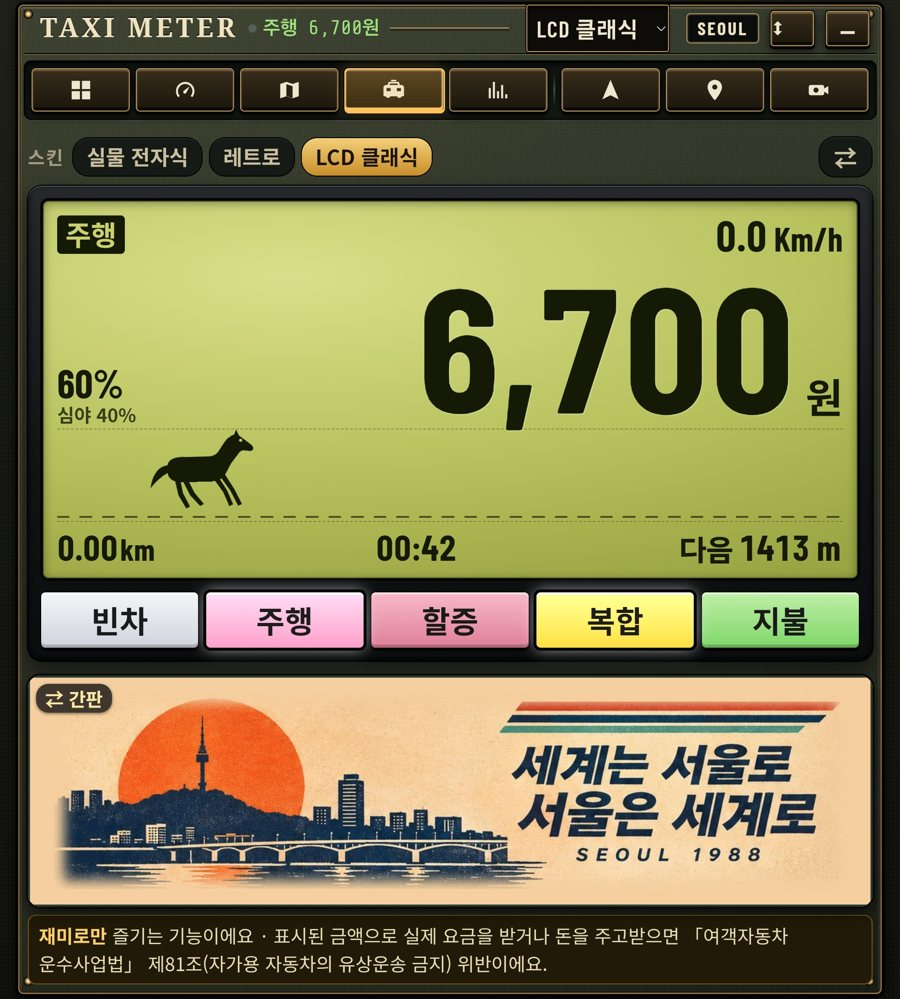
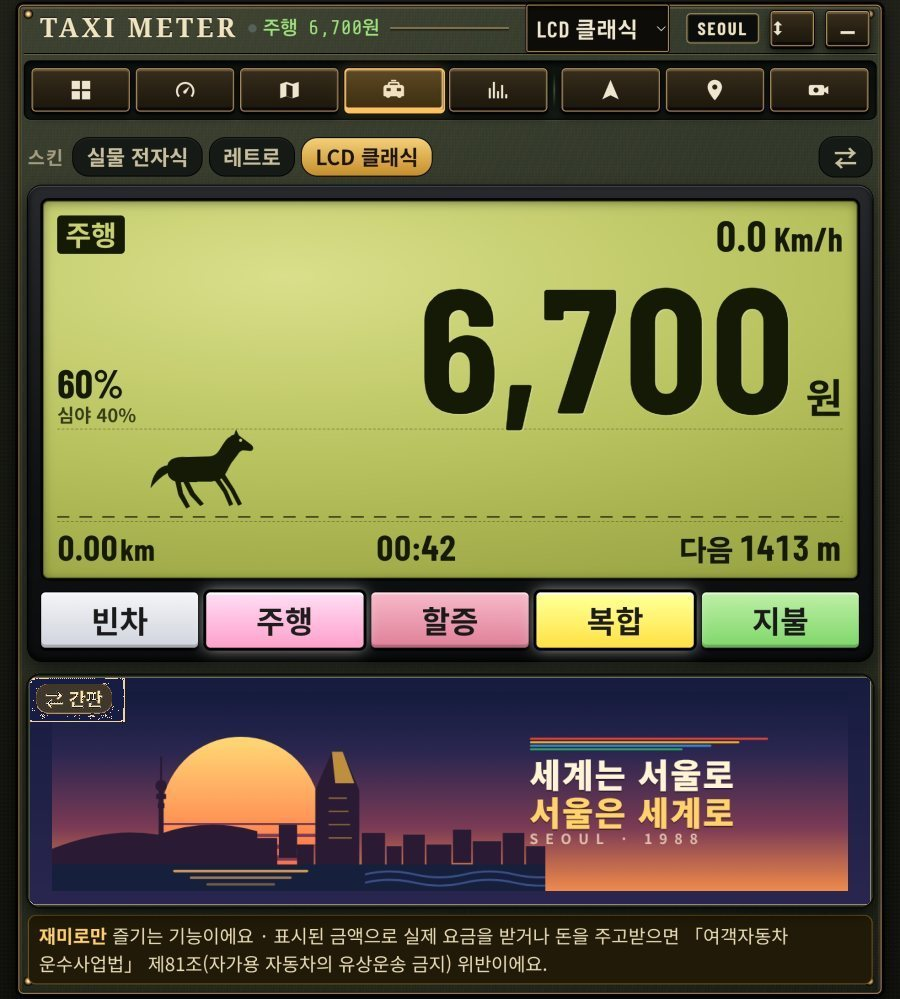
스피드미터 상세: LCD 클래식 화면도 새 하단 배너로
Claude-Session: https://claude.ai/code/session_012mxsbcd4ZPNXeNzgWUvJ3a

Changed region(s): [[0.0311, 0.6517, 0.9956, 0.9309]]

diff --git a/about/index.html b/about/index.html
@@ -1779,7 +1779,7 @@ header.top nav a.nav-fb:hover { text-decoration: none; color: #fff; }
           <figcaption><small>02 · 간판 바꾸기</small><h3>세계는 서울로.</h3><p>⇄ 간판 단추로 1988 간판과 대신남 운수를 바꿉니다.</p></figcaption>
         </figure>
         <figure>
-          <div class="ap-dev" style="aspect-ratio:900/999"><img src="/media/sp-taxi-lcd.jpg" alt="LCD 클래식 스킨: 연두색 액정에 요금 6,700원과 달리는 말" loading="lazy"></div>
+          <div class="ap-dev" style="aspect-ratio:900/999"><img src="/media/sp-taxi-lcd.jpg?v=1126c" alt="LCD 클래식 스킨: 연두색 액정에 요금 6,700원과 달리는 말" loading="lazy"></div>
           <figcaption><small>03 · LCD 클래식</small><h3>연두빛 액정.</h3><p>예전 전자식 미터기의 숫자와 말 그림.</p></figcaption>
         </figure>
         <figure>

diff --git a/amp/index.html b/amp/index.html
@@ -1779,7 +1779,7 @@ header.top nav a.nav-fb:hover { text-decoration: none; color: #fff; }
           <figcaption><small>02 · 간판 바꾸기</small><h3>세계는 서울로.</h3><p>⇄ 간판 단추로 1988 간판과 대신남 운수를 바꿉니다.</p></figcaption>
         </figure>
         <figure>
-          <div class="ap-dev" style="aspect-ratio:900/999"><img src="/media/sp-taxi-lcd.jpg" alt="LCD 클래식 스킨: 연두색 액정에 요금 6,700원과 달리는 말" loading="lazy"></div>
+          <div class="ap-dev" style="aspect-ratio:900/999"><img src="/media/sp-taxi-lcd.jpg?v=1126c" alt="LCD 클래식 스킨: 연두색 액정에 요금 6,700원과 달리는 말" loading="lazy"></div>
           <figcaption><small>03 · LCD 클래식</small><h3>연두빛 액정.</h3><p>예전 전자식 미터기의 숫자와 말 그림.</p></figcaption>
         </figure>
         <figure>

diff --git a/apps/index.html b/apps/index.html
@@ -1779,7 +1779,7 @@ header.top nav a.nav-fb:hover { text-decoration: none; color: #fff; }
           <figcaption><small>02 · 간판 바꾸기</small><h3>세계는 서울로.</h3><p>⇄ 간판 단추로 1988 간판과 대신남 운수를 바꿉니다.</p></figcaption>
         </figure>
         <figure>
-          <div class="ap-dev" style="aspect-ratio:900/999"><img src="/media/sp-taxi-lcd.jpg" alt="LCD 클래식 스킨: 연두색 액정에 요금 6,700원과 달리는 말" loading="lazy"></div>
+          <div class="ap-dev" style="aspect-ratio:900/999"><img src="/media/sp-taxi-lcd.jpg?v=1126c" alt="LCD 클래식 스킨: 연두색 액정에 요금 6,700원과 달리는 말" loading="lazy"></div>
           <figcaption><small>03 · LCD 클래식</small><h3>연두빛 액정.</h3><p>예전 전자식 미터기의 숫자와 말 그림.</p></figcaption>
         </figure>
         <figure>

diff --git a/browser/index.html b/browser/index.html
@@ -1779,7 +1779,7 @@ header.top nav a.nav-fb:hover { text-decoration: none; color: #fff; }
           <figcaption><small>02 · 간판 바꾸기</small><h3>세계는 서울로.</h3><p>⇄ 간판 단추로 1988 간판과 대신남 운수를 바꿉니다.</p></figcaption>
         </figure>
         <figure>
-          <div class="ap-dev" style="aspect-ratio:900/999"><img src="/media/sp-taxi-lcd.jpg" alt="LCD 클래식 스킨: 연두색 액정에 요금 6,700원과 달리는 말" loading="lazy"></div>
+          <div class="ap-dev" style="aspect-ratio:900/999"><img src="/media/sp-taxi-lcd.jpg?v=1126c" alt="LCD 클래식 스킨: 연두색 액정에 요금 6,700원과 달리는 말" loading="lazy"></div>
           <figcaption><small>03 · LCD 클래식</small><h3>연두빛 액정.</h3><p>예전 전자식 미터기의 숫자와 말 그림.</p></figcaption>
         </figure>
         <figure>

diff --git a/desktop/index.html b/desktop/index.html
@@ -1779,7 +1779,7 @@ header.top nav a.nav-fb:hover { text-decoration: none; color: #fff; }
           <figcaption><small>02 · 간판 바꾸기</small><h3>세계는 서울로.</h3><p>⇄ 간판 단추로 1988 간판과 대신남 운수를 바꿉니다.</p></figcaption>
         </figure>
         <figure>
-          <div class="ap-dev" style="aspect-ratio:900/999"><img src="/media/sp-taxi-lcd.jpg" alt="LCD 클래식 스킨: 연두색 액정에 요금 6,700원과 달리는 말" loading="lazy"></div>
+          <div class="ap-dev" style="aspect-ratio:900/999"><img src="/media/sp-taxi-lcd.jpg?v=1126c" alt="LCD 클래식 스킨: 연두색 액정에 요금 6,700원과 달리는 말" loading="lazy"></div>
           <figcaption><small>03 · LCD 클래식</small><h3>연두빛 액정.</h3><p>예전 전자식 미터기의 숫자와 말 그림.</p></figcaption>
         </figure>
         <figure>

diff --git a/dulsseum/index.html b/dulsseum/index.html
@@ -1779,7 +1779,7 @@ header.top nav a.nav-fb:hover { text-decoration: none; color: #fff; }
           <figcaption><small>02 · 간판 바꾸기</small><h3>세계는 서울로.</h3><p>⇄ 간판 단추로 1988 간판과 대신남 운수를 바꿉니다.</p></figcaption>
         </figure>
         <figure>
-          <div class="ap-dev" style="aspect-ratio:900/999"><img src="/media/sp-taxi-lcd.jpg" alt="LCD 클래식 스킨: 연두색 액정에 요금 6,700원과 달리는 말" loading="lazy"></div>
+          <div class="ap-dev" style="aspect-ratio:900/999"><img src="/media/sp-taxi-lcd.jpg?v=1126c" alt="LCD 클래식 스킨: 연두색 액정에 요금 6,700원과 달리는 말" loading="lazy"></div>
           <figcaption><small>03 · LCD 클래식</small><h3>연두빛 액정.</h3><p>예전 전자식 미터기의 숫자와 말 그림.</p></figcaption>
         </figure>
         <figure>

diff --git a/feedback/index.html b/feedback/index.html
@@ -1779,7 +1779,7 @@ header.top nav a.nav-fb:hover { text-decoration: none; color: #fff; }
           <figcaption><small>02 · 간판 바꾸기</small><h3>세계는 서울로.</h3><p>⇄ 간판 단추로 1988 간판과 대신남 운수를 바꿉니다.</p></figcaption>
         </figure>
         <figure>
-          <div class="ap-dev" style="aspect-ratio:900/999"><img src="/media/sp-taxi-lcd.jpg" alt="LCD 클래식 스킨: 연두색 액정에 요금 6,700원과 달리는 말" loading="lazy"></div>
+          <div class="ap-dev" style="aspect-ratio:900/999"><img src="/media/sp-taxi-lcd.jpg?v=1126c" alt="LCD 클래식 스킨: 연두색 액정에 요금 6,700원과 달리는 말" loading="lazy"></div>
           <figcaption><small>03 · LCD 클래식</small><h3>연두빛 액정.</h3><p>예전 전자식 미터기의 숫자와 말 그림.</p></figcaption>
         </figure>
         <figure>

diff --git a/game/index.html b/game/index.html
@@ -1779,7 +1779,7 @@ header.top nav a.nav-fb:hover { text-decoration: none; color: #fff; }
           <figcaption><small>02 · 간판 바꾸기</small><h3>세계는 서울로.</h3><p>⇄ 간판 단추로 1988 간판과 대신남 운수를 바꿉니다.</p></figcaption>
         </figure>
         <figure>
-          <div class="ap-dev" style="aspect-ratio:900/999"><img src="/media/sp-taxi-lcd.jpg" alt="LCD 클래식 스킨: 연두색 액정에 요금 6,700원과 달리는 말" loading="lazy"></div>
+          <div class="ap-dev" style="aspect-ratio:900/999"><img src="/media/sp-taxi-lcd.jpg?v=1126c" alt="LCD 클래식 스킨: 연두색 액정에 요금 6,700원과 달리는 말" loading="lazy"></div>
           <figcaption><small>03 · LCD 클래식</small><h3>연두빛 액정.</h3><p>예전 전자식 미터기의 숫자와 말 그림.</p></figcaption>
         </figure>
         <figure>

diff --git a/hardware/index.html b/hardware/index.html
@@ -1779,7 +1779,7 @@ header.top nav a.nav-fb:hover { text-decoration: none; color: #fff; }
           <figcaption><small>02 · 간판 바꾸기</small><h3>세계는 서울로.</h3><p>⇄ 간판 단추로 1988 간판과 대신남 운수를 바꿉니다.</p></figcaption>
         </figure>
         <figure>
-          <div class="ap-dev" style="aspect-ratio:900/999"><img src="/media/sp-taxi-lcd.jpg" alt="LCD 클래식 스킨: 연두색 액정에 요금 6,700원과 달리는 말" loading="lazy"></div>
+          <div class="ap-dev" style="aspect-ratio:900/999"><img src="/media/sp-taxi-lcd.jpg?v=1126c" alt="LCD 클래식 스킨: 연두색 액정에 요금 6,700원과 달리는 말" loading="lazy"></div>
           <figcaption><small>03 · LCD 클래식</small><h3>연두빛 액정.</h3><p>예전 전자식 미터기의 숫자와 말 그림.</p></figcaption>
         </figure>
         <figure>

diff --git a/index.html b/index.html
@@ -1779,7 +1779,7 @@ header.top nav a.nav-fb:hover { text-decoration: none; color: #fff; }
           <figcaption><small>02 · 간판 바꾸기</small><h3>세계는 서울로.</h3><p>⇄ 간판 단추로 1988 간판과 대신남 운수를 바꿉니다.</p></figcaption>
         </figure>
         <figure>
-          <div class="ap-dev" style="aspect-ratio:900/999"><img src="/media/sp-taxi-lcd.jpg" alt="LCD 클래식 스킨: 연두색 액정에 요금 6,700원과 달리는 말" loading="lazy"></div>
+          <div class="ap-dev" style="aspect-ratio:900/999"><img src="/media/sp-taxi-lcd.jpg?v=1126c" alt="LCD 클래식 스킨: 연두색 액정에 요금 6,700원과 달리는 말" loading="lazy"></div>
           <figcaption><small>03 · LCD 클래식</small><h3>연두빛 액정.</h3><p>예전 전자식 미터기의 숫자와 말 그림.</p></figcaption>
         </figure>
         <figure>

diff --git a/localai/index.html b/localai/index.html
@@ -1779,7 +1779,7 @@ header.top nav a.nav-fb:hover { text-decoration: none; color: #fff; }
           <figcaption><small>02 · 간판 바꾸기</small><h3>세계는 서울로.</h3><p>⇄ 간판 단추로 1988 간판과 대신남 운수를 바꿉니다.</p></figcaption>
         </figure>
         <figure>
-          <div class="ap-dev" style="aspect-ratio:900/999"><img src="/media/sp-taxi-lcd.jpg" alt="LCD 클래식 스킨: 연두색 액정에 요금 6,700원과 달리는 말" loading="lazy"></div>
+          <div class="ap-dev" style="aspect-ratio:900/999"><img src="/media/sp-taxi-lcd.jpg?v=1126c" alt="LCD 클래식 스킨: 연두색 액정에 요금 6,700원과 달리는 말" loading="lazy"></div>
           <figcaption><small>03 · LCD 클래식</small><h3>연두빛 액정.</h3><p>예전 전자식 미터기의 숫자와 말 그림.</p></figcaption>
         </figure>
         <figure>

diff --git a/pad/index.html b/pad/index.html
@@ -1779,7 +1779,7 @@ header.top nav a.nav-fb:hover { text-decoration: none; color: #fff; }
           <figcaption><small>02 · 간판 바꾸기</small><h3>세계는 서울로.</h3><p>⇄ 간판 단추로 1988 간판과 대신남 운수를 바꿉니다.</p></figcaption>
         </figure>
         <figure>
-          <div class="ap-dev" style="aspect-ratio:900/999"><img src="/media/sp-taxi-lcd.jpg" alt="LCD 클래식 스킨: 연두색 액정에 요금 6,700원과 달리는 말" loading="lazy"></div>
+          <div class="ap-dev" style="aspect-ratio:900/999"><img src="/media/sp-taxi-lcd.jpg?v=1126c" alt="LCD 클래식 스킨: 연두색 액정에 요금 6,700원과 달리는 말" loading="lazy"></div>
           <figcaption><small>03 · LCD 클래식</small><h3>연두빛 액정.</h3><p>예전 전자식 미터기의 숫자와 말 그림.</p></figcaption>
         </figure>
         <figure>
